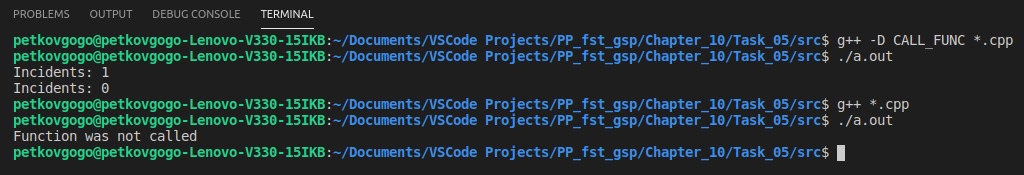
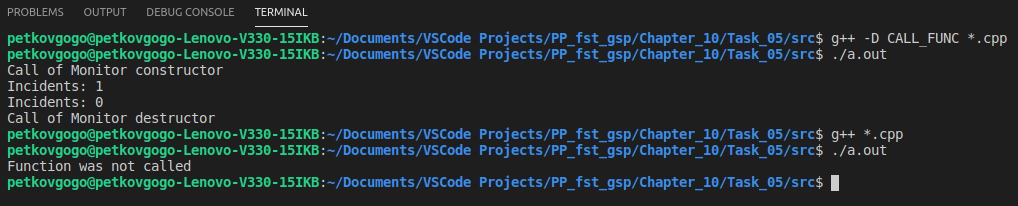
Added messages for a more detailed output #160

Changed region(s): [[0.0, 0.0286, 1.0, 0.9429]]

diff --git a/Chapter_10/Task_05/src/monitor.cpp b/Chapter_10/Task_05/src/monitor.cpp
@@ -3,6 +3,16 @@
 
 int Monitor::m_incidents = 0;
 
+Monitor::Monitor()
+{
+    std::cout << "Call of Monitor constructor" << std::endl;
+}
+
+Monitor::~Monitor()
+{
+    std::cout << "Call of Monitor destructor" << std::endl;
+}
+
 void Monitor::incident()
 {
     m_incidents++;

diff --git a/Chapter_10/Task_05/inc/Monitor.h b/Chapter_10/Task_05/inc/Monitor.h
@@ -6,6 +6,9 @@ class Monitor
     static int m_incidents;
 
 public:
+    Monitor();
+    ~Monitor();
+
     void incident();
     void decrement();
     void print();
